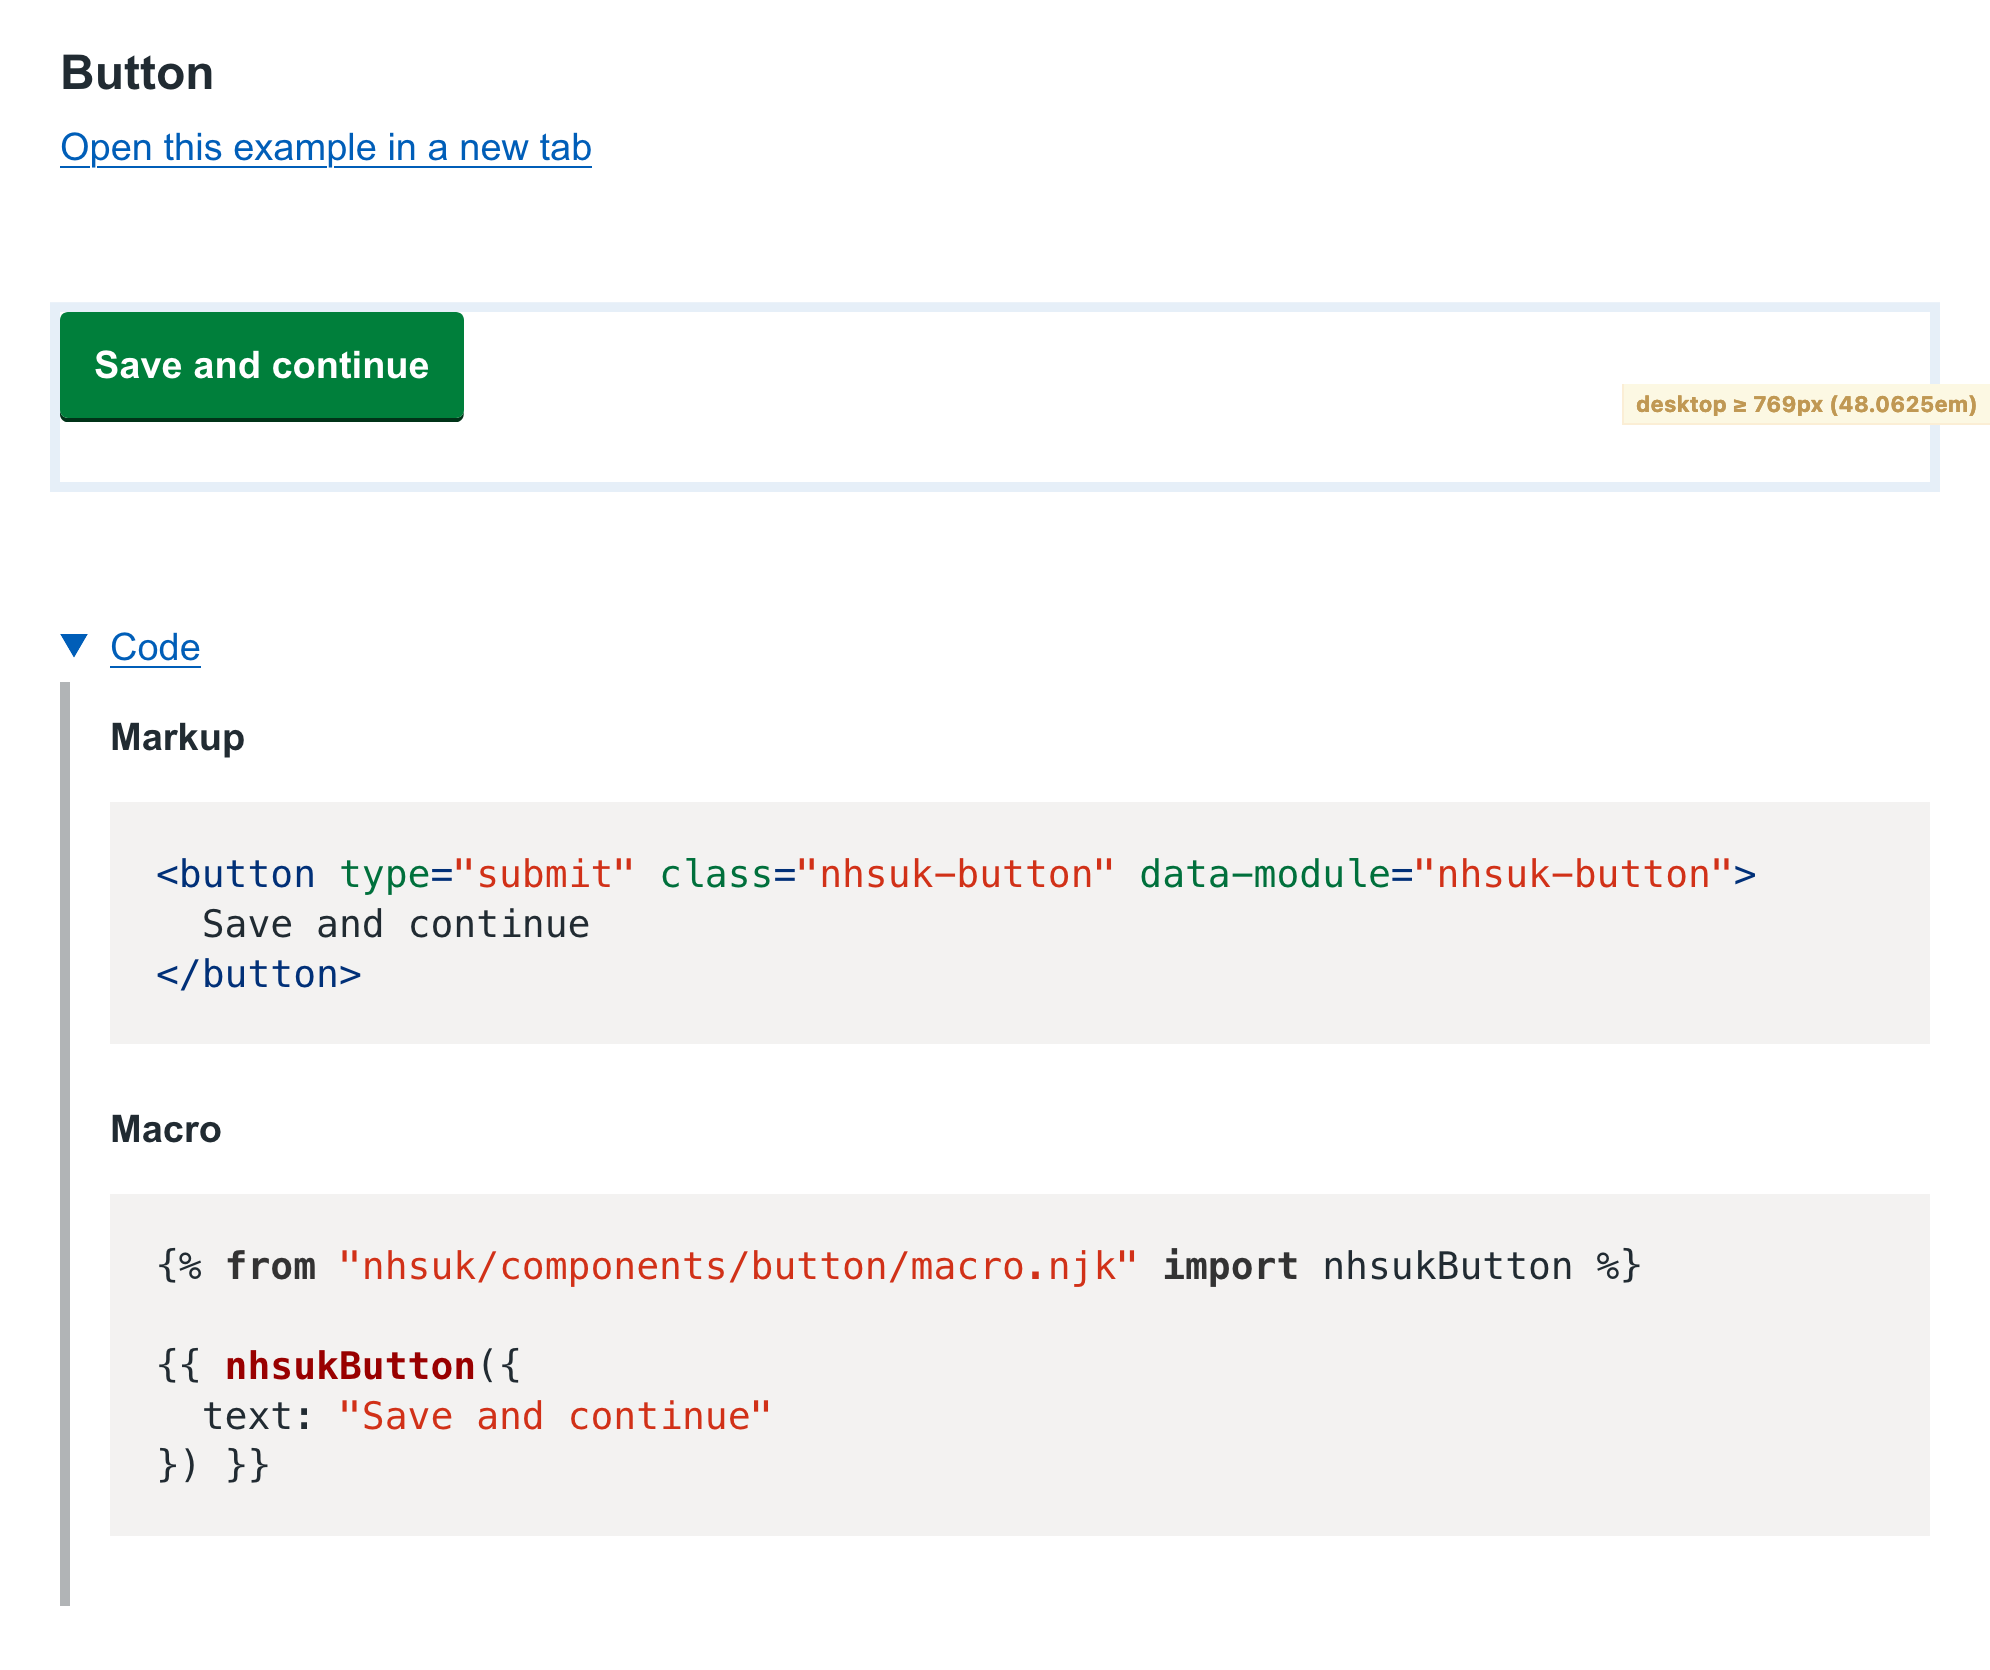
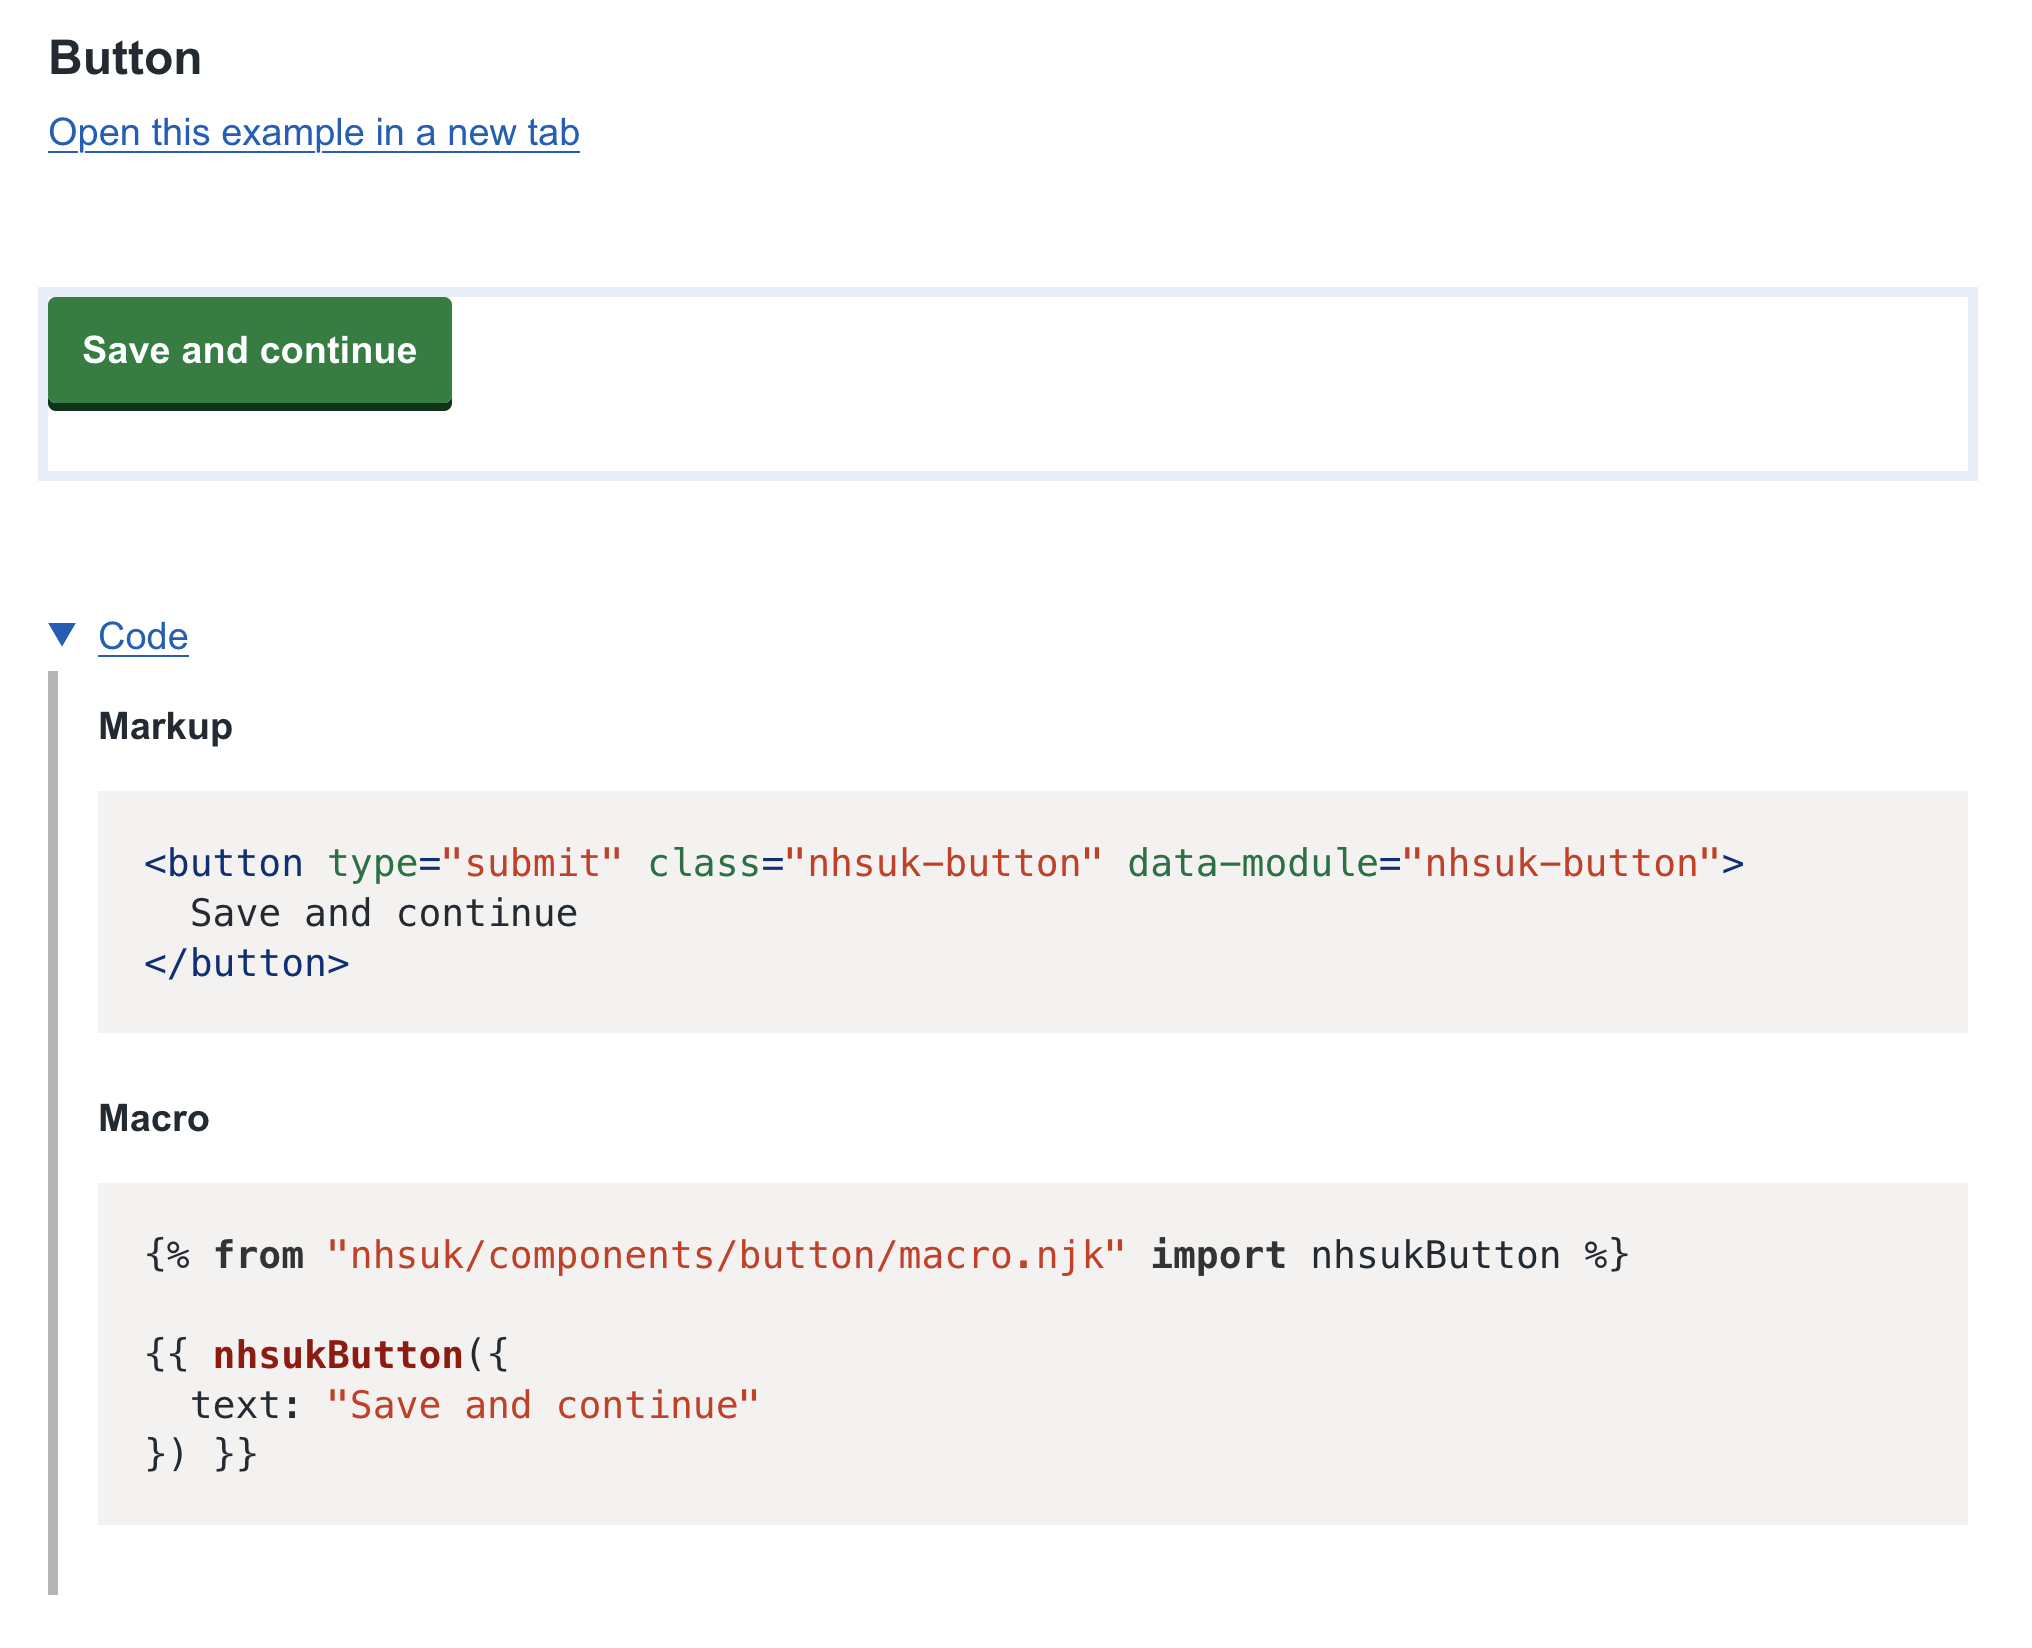
update button scss transformer

diff --git a/src/lib/scss/button.ts b/src/lib/scss/button.ts
@@ -27,6 +27,8 @@ const plugin: PluginCreator<Options> = (options = {}) => {
       atRule.walkDecls((decl) => {
         if (decl.prop.match(/\$nhsuk-warning-button-.*/)) {
           decl.remove()
+        } else if (decl.prop === '$button-shadow-size') {
+          decl.value = '4px !default'
         }
       })
 
@@ -114,6 +116,32 @@ const plugin: PluginCreator<Options> = (options = {}) => {
                   params: 'nhsuk-font($size: 19)',
                 }),
               )
+            }
+          })
+
+          rule.walkRules((ruleRule) => {
+            // update the focus styles
+            if (ruleRule.selector === '&:focus:not(:active):not(:hover)') {
+              ruleRule.walkDecls((decl) => {
+                if (decl.prop === 'box-shadow') {
+                  decl.value =
+                    '0 $button-shadow-size 0 $nhsuk-focus-text-colour'
+                }
+              })
+            }
+            // cleanup the link, visited, active, and hover styles
+            else if (
+              ruleRule.selector ===
+              `&:link,
+    &:visited,
+    &:active,
+    &:hover`
+            ) {
+              ruleRule.walkDecls((decl) => {
+                if (decl.prop === 'font-weight') {
+                  decl.remove()
+                }
+              })
             }
           })
         }

diff --git a/src/index.ts b/src/index.ts
@@ -1,11 +1,8 @@
 import fs from 'node:fs'
 import path from 'node:path'
 import fg from 'fast-glob'
-import postcss from 'postcss'
-import postcssScss from 'postcss-scss'
 
-import button from './lib/scss/button'
-import colourPalette from './lib/scss/colour-palette'
+import processScss from './lib/scss'
 
 const files = fg.globSync(['govuk-frontend/**/*', '!**/dist/**'])
 
@@ -24,14 +21,7 @@ files.forEach((file) => {
   if (path.extname(file) === '.scss') {
     const input = content.replace(/govuk/g, 'nhsuk').replace(/GOVUK/g, 'NHSUK')
 
-    postcss([button, colourPalette])
-      .process(input, {
-        from: destination,
-        syntax: postcssScss,
-      })
-      .then((result) => {
-        fs.writeFileSync(destination, result.css)
-      })
+    processScss(input, destination)
   } else {
     let newContent = content
       .replace(/govuk/g, 'nhsuk')

diff --git a/src/lib/scss.ts b/src/lib/scss.ts
@@ -1,0 +1,17 @@
+import fs from 'node:fs'
+import postcss from 'postcss'
+import postcssScss from 'postcss-scss'
+
+import button from './scss/button'
+import colourPalette from './scss/colour-palette'
+
+const processScss = async (input: string, destination: string) => {
+  const result = await postcss([button, colourPalette]).process(input, {
+    from: destination,
+    syntax: postcssScss,
+  })
+
+  fs.writeFileSync(destination, result.css)
+}
+
+export default processScss
